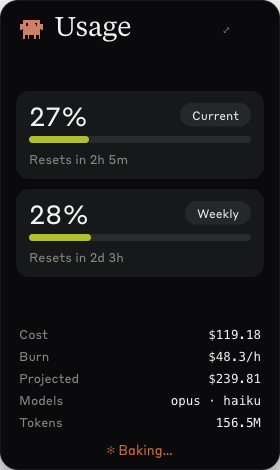
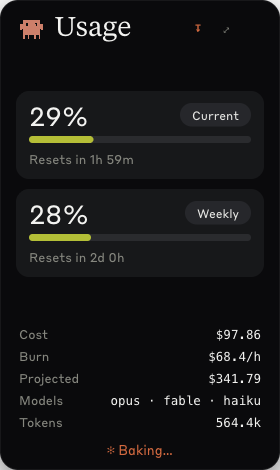
fix: ccusage@14 + window-command perms; feat: pin (always-on-top) toggle
ccusage pinned to @user — v15+ ships a native binary that crashes with a nix-libiconv dyld error on this Mac; v14 is pure-JS. Fixes empty Cost/Burn in the info panel.

info panel didn't resize: JS setSize was denied (missing capability) AND used the wrong module for LogicalSize. Add core:window:allow-{set-size,set-always-on-top,close}; use __TAURI__.dpi.LogicalSize.

feat: pin button toggles always-on-top (float over windows), remembered in localStorage (default on).

diff --git a/src/main.js b/src/main.js
@@ -69,7 +69,7 @@ function shortModels(models) {
 const el = {};
 function cache() {
   for (const id of [
-    "card", "mascot", "mascotBig", "expandBtn", "closeBtn", "creatureBack",
+    "card", "mascot", "mascotBig", "pinBtn", "expandBtn", "closeBtn", "creatureBack",
     "curPct", "curBar", "curReset", "wkPct", "wkBar", "wkReset",
     "statusText", "errMsg", "dCost", "dBurn", "dProj", "dModels", "dTokens",
   ]) {
@@ -146,8 +146,11 @@ let baseBeforeCreature = "compact";
 
 async function resizeWindow(w, h) {
   try {
-    const W = window.__TAURI__.window;
-    await W.getCurrentWindow().setSize(new W.LogicalSize(w, h));
+    const T = window.__TAURI__;
+    // LogicalSize lives in __TAURI__.dpi (not .window) — using the wrong module
+    // made setSize throw, so the window never grew and the info panel clipped.
+    const LogicalSize = (T.dpi && T.dpi.LogicalSize) || T.window.LogicalSize;
+    await T.window.getCurrentWindow().setSize(new LogicalSize(w, h));
   } catch {
     /* not in Tauri (headless) */
   }
@@ -180,6 +183,21 @@ function closeApp() {
   } catch {
     /* headless */
   }
+}
+
+// Pin = always-on-top ("popover over windows"). Toggled by the header pin button,
+// remembered in localStorage. Default pinned (current desk-widget behavior).
+let pinned = true;
+async function applyPinned(on) {
+  pinned = on;
+  try {
+    await window.__TAURI__.window.getCurrentWindow().setAlwaysOnTop(on);
+  } catch {
+    /* headless */
+  }
+  el.pinBtn.classList.toggle("active", on);
+  el.pinBtn.title = on ? "floating on top — click to unpin" : "pin on top";
+  localStorage.setItem("cuw-pinned", on ? "1" : "0");
 }
 
 // ---------------------------------------------------------------------------
@@ -301,6 +319,8 @@ window.addEventListener("DOMContentLoaded", () => {
   });
   el.creatureBack.addEventListener("click", () => setView(baseBeforeCreature));
   el.closeBtn.addEventListener("click", closeApp);
+  el.pinBtn.addEventListener("click", () => applyPinned(!pinned));
+  applyPinned(localStorage.getItem("cuw-pinned") !== "0"); // default on
 
   refresh();
   setInterval(refresh, POLL_MS);

diff --git a/src/styles.css b/src/styles.css
@@ -116,6 +116,16 @@ body {
 .card:hover .hbtn.close {
   opacity: 1;
 }
+.hbtn.pin {
+  display: flex;
+  align-items: center;
+}
+.hbtn.pin svg {
+  display: block;
+}
+.hbtn.pin.active {
+  color: var(--accent); /* pinned (floating on top) */
+}
 
 /* ---- meters ---- */
 .meters {

diff --git a/src/index.html b/src/index.html
@@ -27,6 +27,13 @@
         ></canvas>
         <h1 class="title">Usage</h1>
         <span id="staleDot" class="stale-dot" title="showing last value"></span>
+        <button id="pinBtn" class="hbtn pin" title="pin on top">
+          <svg viewBox="0 0 24 24" width="12" height="12" aria-hidden="true">
+            <rect x="7" y="3" width="10" height="2.4" rx="1.2" fill="currentColor" />
+            <rect x="10.6" y="5" width="2.8" height="8" fill="currentColor" />
+            <path d="M8 13h8l-4 6z" fill="currentColor" />
+          </svg>
+        </button>
         <button id="expandBtn" class="hbtn" title="details">⤢</button>
         <button id="closeBtn" class="hbtn close" title="close">✕</button>
       </header>

diff --git a/src-tauri/src/usage.rs b/src-tauri/src/usage.rs
@@ -365,7 +365,10 @@ fn resolve_program(program: &str) -> String {
 #[tauri::command]
 pub fn get_cost() -> CostView {
     let cmd_str =
-        std::env::var("CCUSAGE_CMD").unwrap_or_else(|_| "npx -y ccusage@latest".to_string());
+        // Pinned to @14: v15+ ships a native (Bun-compiled) binary that, on some
+        // Macs, hardcodes a nonexistent nix libiconv path and crashes (dyld). v14
+        // is the last pure-JS release and runs fine via node. Override with CCUSAGE_CMD.
+        std::env::var("CCUSAGE_CMD").unwrap_or_else(|_| "npx -y ccusage@14".to_string());
     let mut parts = cmd_str.split_whitespace();
     let Some(program) = parts.next() else {
         return CostView::Error {

diff --git a/CLAUDE.md b/CLAUDE.md
@@ -9,7 +9,7 @@ Features: Current (5h) + Weekly (7d) usage % with heat bars + reset timers; anim
 
 ## Data — two sources
 - **Primary: rate-limit % (`get_usage`)** — reads the Claude Code OAuth token from the macOS **Keychain** (`security find-generic-password -s "Claude Code-credentials"`; fallback `~/.claude/.credentials.json`), POSTs one minimal `/v1/messages` (`anthropic-beta: oauth-2025-04-20`, haiku, max_tokens 1), reads response headers `anthropic-ratelimit-unified-{5h,7d}-{utilization,reset}` + `-5h-status`. **Subscription auth, not API-billed.** Pure header parser is unit-tested. Polls every 30s.
-- **Secondary: cost (`get_cost`)** — runs `ccusage blocks --active --json` → `costUSD`/`burnRate.costPerHour`/`projection.totalCost`/`models`/`tokenCounts`. Only polled while the info panel is open. (`costUSD` needs explicit serde `rename` — uppercase acronym.)
+- **Secondary: cost (`get_cost`)** — runs `ccusage@14 blocks --active --json` → `costUSD`/`burnRate.costPerHour`/`projection.totalCost`/`models`/`tokenCounts`. Only polled while the info panel is open. (`costUSD` needs explicit serde `rename` — uppercase acronym.) **Pinned to `@14`**: v15+ ships a native binary that crashes with a nix-libiconv `dyld` error on this Mac; v14 is the last pure-JS release.
 
 ## Build / run
 - Prereqs: **Rust** (rustup, `cargo 1.96`; non-login shells: `source "$HOME/.cargo/env"`), Xcode CLT, Node v22, ccusage reachable via `npx`.
@@ -23,6 +23,7 @@ Features: Current (5h) + Weekly (7d) usage % with heat bars + reset timers; anim
 - **macOS PATH**: a Finder-launched `.app` only inherits `/usr/bin:/bin:...` — `usage.rs::resolve_program()`/`extra_node_dirs()` resolve `npx` to an absolute path (nvm + homebrew) so the bundled app finds node.
 - **set_position is LOGICAL points**, not physical pixels — mixing physical on Retina hides the window off-screen. `lib.rs::top_right_pos` converts via `scale_factor`. Verify window placement with `CGWindowListCopyWindowInfo` (JXA): expect `X≈2264, onscreen=true`.
 - First `.app` launch may prompt to allow Keychain access → **Allow**.
+- **Window commands need capability permissions**: JS `setSize`/`setAlwaysOnTop`/`close` silently fail unless granted in `src-tauri/capabilities/default.json` (`core:window:allow-set-size`, `-set-always-on-top`, `-close`) — `core:default` does NOT include them. This was why the info panel didn't resize.
 
 ## Architecture
 - `src-tauri/src/usage.rs` — `get_usage` (rate-limit %, pure `parse_rate_limit`) + `get_cost` (ccusage, pure `parse_cost`) + Keychain token read + PATH resolution. All parsers unit-tested against `tests/fixtures/{active,idle}.json`.